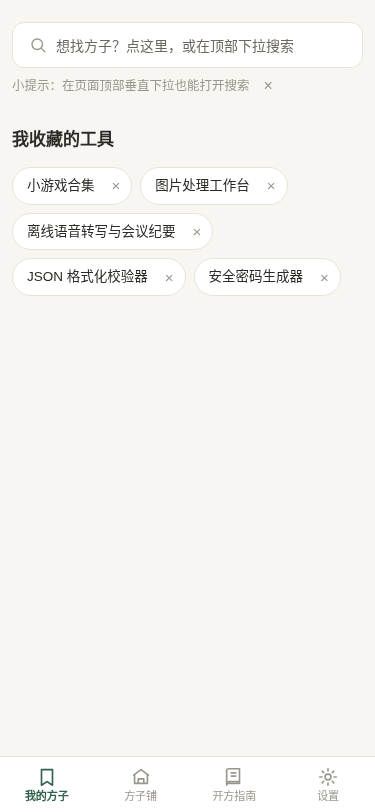
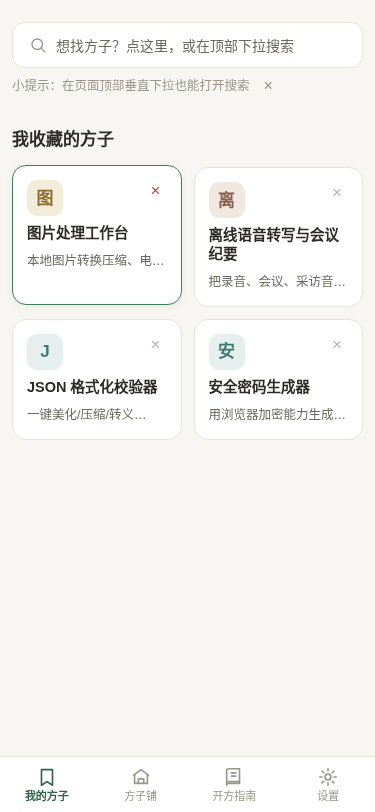
feat(app): 我的方子收藏改小型卡片网格 (2026-10-20)

diff --git a/src/views/HomeView.vue b/src/views/HomeView.vue
@@ -27,6 +27,20 @@ function removeFav(id: string) {
   refreshFavorites()
 }
 
+// 工具无内置图标/品牌色，按 id 稳定取一组柔和底色（米白+品牌绿为主），首字作字标
+const ICON_PALETTE = [
+  { bg: '#e6efe9', fg: '#3f7d5e' },
+  { bg: '#e7efee', fg: '#3d7a72' },
+  { bg: '#f3ecd9', fg: '#8a6d2f' },
+  { bg: '#f0e7e1', fg: '#8a5f4c' }
+]
+function iconStyle(id: string) {
+  let h = 0
+  for (const ch of id) h = (h * 31 + ch.charCodeAt(0)) >>> 0
+  const p = ICON_PALETTE[h % ICON_PALETTE.length] ?? ICON_PALETTE[0]!
+  return { background: p.bg, color: p.fg }
+}
+
 // —— 紧凑搜索入口（PC 点击；移动端配合下拉手势唤起 /search）——
 const PULL_HINT_KEY = 'fz-pull-hint-seen'
 const showPullHint = ref(localStorage.getItem(PULL_HINT_KEY) !== '1')
@@ -127,16 +141,30 @@ onMounted(() => {
       <span class="pull-dot">⌄</span>{{ pullText }}
     </div>
 
-    <!-- 收藏列表（紧凑胶囊，直达工具、可移除） -->
+    <!-- 收藏小卡网格：整卡进工具页，右上角 × 移除 -->
     <section v-if="favoriteTools.length" class="block fav-block">
       <div class="block-head">
-        <h2>我收藏的工具</h2>
+        <h2>我收藏的方子</h2>
       </div>
-      <div class="fav-links">
-        <span v-for="t in favoriteTools" :key="t.manifest.id" class="fav-chip">
-          <RouterLink class="fav-link" :to="`/t/${t.manifest.id}`">{{ t.manifest.name }}</RouterLink>
-          <button class="fav-x" type="button" title="从我的方子移除" @click="removeFav(t.manifest.id)">×</button>
-        </span>
+      <div class="fav-grid">
+        <RouterLink
+          v-for="t in favoriteTools"
+          :key="t.manifest.id"
+          class="fav-card"
+          :to="`/t/${t.manifest.id}`"
+        >
+          <div class="fc-top">
+            <span class="fc-ico" :style="iconStyle(t.manifest.id)">{{ t.manifest.name.slice(0, 1) }}</span>
+            <button
+              class="fc-x"
+              type="button"
+              title="从我的方子移除"
+              @click.prevent.stop="removeFav(t.manifest.id)"
+            >×</button>
+          </div>
+          <span class="fc-name">{{ t.manifest.name }}</span>
+          <span class="fc-tag">{{ t.manifest.tagline }}</span>
+        </RouterLink>
       </div>
     </section>
 
@@ -225,45 +253,77 @@ onMounted(() => {
   font-size: 17px;
   margin: 0;
 }
-.fav-links {
+.fav-grid {
+  display: grid;
+  grid-template-columns: repeat(2, 1fr);
+  gap: 12px;
+}
+@media (min-width: 640px) {
+  .fav-grid {
+    grid-template-columns: repeat(auto-fill, minmax(170px, 1fr));
+  }
+}
+.fav-card {
   display: flex;
-  flex-wrap: wrap;
+  flex-direction: column;
   gap: 8px;
-}
-.fav-chip {
-  display: inline-flex;
-  align-items: stretch;
-  border: 1px solid var(--line);
-  border-radius: 999px;
+  padding: 14px;
+  min-height: 118px;
   background: var(--surface);
-  overflow: hidden;
-  transition: border-color 0.12s ease, box-shadow 0.12s ease;
+  border: 1px solid var(--line);
+  border-radius: 14px;
+  text-decoration: none !important;
+  color: inherit;
+  transition: transform 0.12s ease, box-shadow 0.12s ease, border-color 0.12s ease;
 }
-.fav-chip:hover {
+.fav-card:hover {
+  transform: translateY(-2px);
   border-color: var(--brand);
   box-shadow: var(--shadow-sm);
 }
-.fav-link {
-  padding: 7px 6px 7px 14px;
-  font-size: 13.5px;
-  color: var(--ink);
-  text-decoration: none !important;
-  white-space: nowrap;
+.fc-top {
+  display: flex;
+  align-items: flex-start;
+  justify-content: space-between;
 }
-.fav-chip:hover .fav-link {
-  color: var(--brand-dark);
+.fc-ico {
+  width: 36px;
+  height: 36px;
+  border-radius: 10px;
+  display: flex;
+  align-items: center;
+  justify-content: center;
+  font-size: 17px;
+  font-weight: 700;
+  flex: none;
 }
-.fav-x {
+.fc-x {
   border: none;
   background: transparent;
   color: var(--ink-faint);
-  font-size: 15px;
+  font-size: 17px;
   line-height: 1;
-  padding: 0 11px;
+  padding: 2px 6px;
   cursor: pointer;
+  opacity: 0.7;
 }
-.fav-x:hover {
+.fc-x:hover {
   color: #c0473c;
+  opacity: 1;
+}
+.fc-name {
+  font-size: 14.5px;
+  font-weight: 600;
+  color: var(--ink);
+  line-height: 1.3;
+}
+.fc-tag {
+  font-size: 12.5px;
+  color: var(--ink-soft);
+  display: -webkit-box;
+  -webkit-line-clamp: 1;
+  -webkit-box-orient: vertical;
+  overflow: hidden;
 }
 .empty-state {
   max-width: 560px;

diff --git a/README.md b/README.md
@@ -4,7 +4,7 @@
 
 「方子」是一个覆盖**生活、工作、合规、开发、安全**等场景的单点工具集合 PWA（渐进式 Web 应用）。每个工具只解决一个具体痛点，用户用一句口语化的问题搜索，就能对症找到并直接使用；也可以把常用工具收藏到「我的方子」。
 
-- **我的方子（首页收藏柜）**：只放已收藏的常用工具胶囊，一键直达；独立搜索页提供搜索框 + 「开方子」按钮 + 随机浮动的常见提问，手机端可顶部下拉唤起。
+- **我的方子（首页收藏柜）**：已收藏工具以小卡片网格展示（手机 2 列、宽屏自动多列），点卡直达、× 移除；独立搜索页提供搜索框 + 「开方子」按钮 + 随机浮动的常见提问，手机端可顶部下拉唤起。
 - **双模式检索**：默认高质量中文关键词检索（2-gram + 关键词重叠 + 命中高亮）；配置 OpenAI 兼容 Embedding 后自动升级为「向量 + 关键词」混合排序，接口异常时自动降级，用户无感。
 - **强可扩展工具框架**：新增一个工具只需新增一个目录、填一份 manifest，**零核心改动、零路由改动、零检索改动**，并提供脚手架命令。
 - **内置计费能力**：免费 / 一次性买断 / Freemium / 按次（量）计费四种模式，网页工具与插件统一接入。

diff --git a/docs/用户使用手册.md b/docs/用户使用手册.md
@@ -85,7 +85,7 @@
 底部第一个标签「**我的方子**」是你的私人收藏柜，只放你收藏的常用工具，从上到下依次是：
 
 - **紧凑搜索入口**：首页顶部一条浅色搜索条，点进去打开独立搜索页；手机端也可以在页面顶部**垂直下拉**（拉到约 1/4 屏）唤起搜索，未拉够会自动回弹。
-- **我收藏的工具**：收藏后才出现，以紧凑胶囊形式一键进入，点右侧 × 可移除（详见第 5 节）。
+- **我收藏的方子**：收藏后才以小卡片网格出现（手机 2 列、宽屏自动多列），点卡片进入工具，右上角 × 可移除（详见第 5 节）。
 - **空收藏态**：还没收藏时显示引导，点「去方子铺逛逛」进入全部工具浏览页。
 
 ### 搜索页怎么用
@@ -132,7 +132,7 @@
 ## 5. 收藏常用工具到我的方子
 
 1. 进入任一工具页，点击右上角「☆ 收藏到我的方子」，按钮变为「★ 已收藏到我的方子」即收藏成功。
-2. 回到「我的方子」，出现「我收藏的工具」胶囊分区，可一键进入。
+2. 回到「我的方子」，出现「我收藏的方子」小卡网格，点卡片一键进入。
 3. 再点一次「★ 已收藏到我的方子」即可取消收藏。
 
 收藏只保存在**当前浏览器本机**，清除浏览器站点数据会一并清除。
